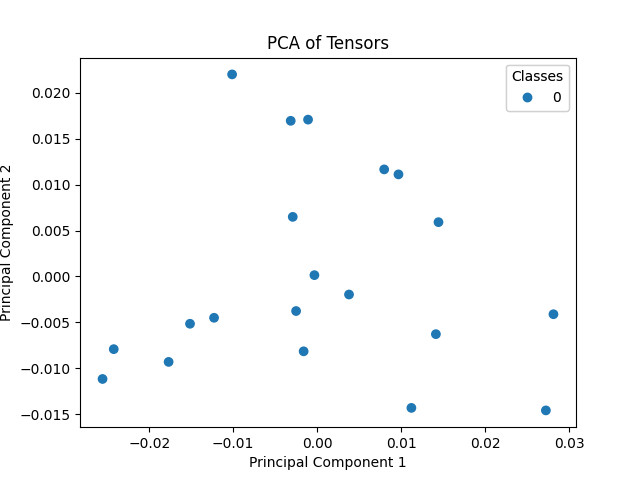
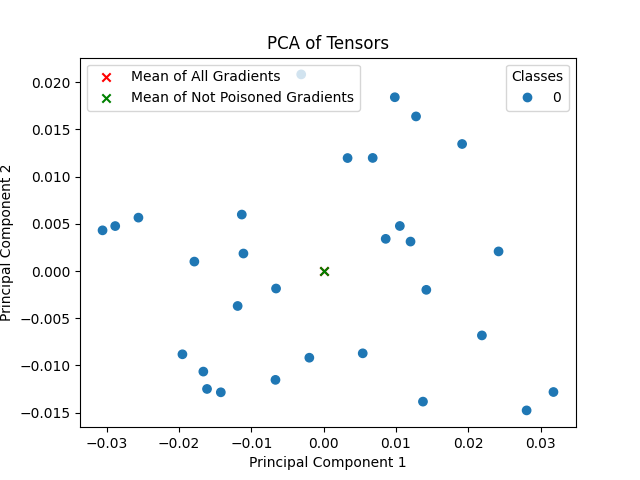
using aggregate_all_params

diff --git a/bannd.py b/bannd.py
@@ -8,7 +8,7 @@ import numpy as np
 import copy
 import numpy as np
 
-from aggregate_gradients import aggregate_gradients, aggregate_gradients_cosine
+from aggregate_gradients import *
 from poison_dataset import *
 from utils import *
 
@@ -100,7 +100,7 @@ def test(model, test_loader):
         print("Accuracy: {}%".format(100*correct/total))
 
 
-def train_defense(model_name, model, train_loader, test_loader_clean, test_loader_poisoned):
+def train_defense(model_name, model, train_loader, test_loader_clean, test_loader_poisoned, epochs=1):
     print("Training the model with a backdoor and a defense...")
     optimizer = torch.optim.SGD(model.parameters(), lr=0.01, momentum=0.9)
     # loss_fn = nn.CrossEntropyLoss(reduction='none')
@@ -111,9 +111,9 @@ def train_defense(model_name, model, train_loader, test_loader_clean, test_loade
 
     loss_fn = nn.KLDivLoss(reduction='none')
 
-    for epoch in tqdm.tqdm(range(10)):
+    for epoch in tqdm.tqdm(range(epochs)):
         model.train()
-        for images, labels, is_poisoned in train_loader:
+        for i, (images, labels, is_poisoned) in enumerate(train_loader):
             images, labels = images.to(device), labels.to(device)
             log_outputs = torch.log_softmax(model(images), dim=1)
 
@@ -134,7 +134,7 @@ def train_defense(model_name, model, train_loader, test_loader_clean, test_loade
 
             # save_gradient_means(gradients, labels, is_poisoned)
             # similarity = lambda grads, mean: torch.norm(grads-mean, dim=1)
-            aggregated_gradients = aggregate_gradients_cosine(gradients, labels, is_poisoned, plot=True)
+            aggregated_gradients = aggregate_all_params(gradients, labels, is_poisoned, plot=(i==0))
 
             # Apply the aggregated gradients
             optimizer.zero_grad()
